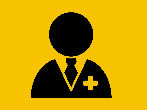
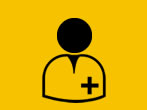
+adaugare butoane de fast login doar pentru telefon,
+adaugare casute imagini
+ modificare structura landing page ( am scos o sectiune de pe mobil si am puso unde ii este locul pentru responsiv)
+ modificari texte
+ adaugare texte
+ modificari css buttoane

Changed region(s): [[0.1905, 0.1091, 0.7619, 0.9545]]

diff --git a/app/scripts/common/about.tmpl.html b/app/scripts/common/about.tmpl.html
@@ -38,7 +38,7 @@
                  
                  <div class="container">       
                         <div class="row">
-                        	<div class="col-sm-6 hidden-phone">
+                        	<div class="col-sm-6">
                             	<h3 translate="steps"></h3>
                                 <div class="hr"></div>
                                 
@@ -112,7 +112,8 @@
 										<p class="text-center" translate="use-professional-two"></p>
                                     </div><!-- end .col-xs-4 -->
                                     <div class="col-xs-4">
-                                    	
+                                    	<p><img src="../../images/doctor-2.jpg" /></p>
+										<p class="text-center" translate="use-professional-three"></p>
                                     </div><!-- end .col-xs-4 -->                               
                                 </div><!-- end .row -->
                             </div><!-- end .col-md-6 -->
@@ -136,53 +137,7 @@
                  </div><!-- end .col-xs-12 -->
                 
                 
-                <div class="container">       
-                        <div class="row">
-                        	
-                           <div class="col-xs-12 visible-phone">
-                            	<h3 translate="steps"></h3>
-                                <div class="hr"></div>
-                                
-                                <div class="row step">
-                                	<div class="col-sm-4 col-md-2">
-                                    	<i class="fa fa-user"></i>
-                                    </div><!-- end .col-xs-4 -->
-                                    <div class="col-sm-8 col-md-10">
-                                    	 <p> 1. <span translate="step-one"></span></p>  
-                                    </div><!-- end .col-xs-8 -->
-                                </div><!-- end .row .step -->
-                                
-                                 <div class="row step">
-                                	<div class="col-sm-4 col-md-2">
-                                    	<i class="fa fa-camera"></i>
-                                    </div><!-- end .col-xs-4 -->
-                                    <div class="col-sm-8 col-md-10">
-                                    	 <p> 2. <span translate="step-two"></span></p> 
-                                    </div><!-- end .col-xs-8 -->
-                                </div><!-- end .row .step -->
-                                
-                                 <div class="row step">
-                                	<div class="col-sm-4 col-md-2">
-                                    	<i class="fa fa-list-ol"></i>
-                                    </div><!-- end .col-xs-4 -->
-                                    <div class="col-sm-8 col-md-10">
-                                    	 <p> 3. <span translate="step-three"></span></p> 
-                                    </div><!-- end .col-xs-8 -->
-                                </div><!-- end .row .step -->
-                                
-                                <div class="row step">
-                                	<div class="col-sm-4 col-md-2">
-                                    	<i class="fa fa-medkit"></i>
-                                    </div><!-- end .col-xs-4 -->
-                                    <div class="col-sm-8 col-md-10">
-                                    	 <p> 4. <span translate="step-four"></span></p>
-                                    </div><!-- end .col-xs-8 -->
-                                </div><!-- end .row .step -->
-                               
-                            </div><!-- end .col-xs-12 -->
-                        
-                		</div><!-- end .row -->
-                </div><!-- end .container -->  
+                
                 
                 <footer>
                 

diff --git a/app/styles/main.css b/app/styles/main.css
@@ -170,9 +170,7 @@ img{
 	margin-right:5px;
 }
 
-.social-media div{
-	float:right;
-}
+
 
 .social-media p a{
 	display:inline-block;
@@ -200,23 +198,22 @@ img{
 .account{
 	margin-top:15px;
 	padding:10px;
-	border:1px solid #85c226;
-	color:#598219;
+	border:1px solid #F8C301;
+	background-color: #F8C301;
+	color:#fff;
 	display:block;
-	-webkit-transition: color 0.3s linear;
-	-moz-transition: color 0.3s linear;
-	-ms-transition: color 0.3s linear;
-	-o-transition: color 0.3s linear;
-	transition: color 0.3s linear;
+	-webkit-transition: all 0.3s linear;
+	-moz-transition: all 0.3s linear;
+	-ms-transition: all 0.3s linear;
+	-o-transition: all 0.3s linear;
+	transition: all 0.3s linear;
 }
 
 .account:hover{
-	background-color: #85c226;
+	background-color: #367fa9;
 	color:#fff;
+	border-color: #367fa9;
 }
-
-
-
 
 @media (min-width: 768px) and (max-width: 979px) {
 
@@ -228,16 +225,21 @@ img{
 
 @media (max-width: 767px) {
 .social-media {
-	float:none;	
+	float:none;
+	text-align:center;	
 }
-
-.social-media{	
-	text-align:center;
-}	
 
 .social-media div{
 	float:none;
 	margin:15px auto;
+}
+
+.social-media p a{ 
+	display: inline-block!important;
+}
+
+.social-media p a i{
+	font-size: 24px;
 }
 
 .header-recomand {
@@ -278,6 +280,10 @@ img{
 	font-size:20px;
 }
 
+.register-header-first small{
+	font-size: 12px;
+}
+
 .register-header-last {
 	margin-top:10px;
 }
@@ -305,8 +311,8 @@ img{
 }
 .register input[type="checkbox"] {
 	margin-right:10px;
-	margin-top:5px;
-	margin-bottom:10px;
+	margin-top:10px;
+	margin-bottom:20px;
 }
 
 .register button {

diff --git a/app/index.html b/app/index.html
@@ -62,6 +62,7 @@
                <div class="social-media">
                
                		<p>
+						<a class="visible-phone" href="#" title="user login"><i class="fa fa-user"></i></a> <!--  This button send you on the loginpage -->
                         <a href="#" title="facebook"><i class="fa fa-facebook"></i></a>
                         <a href="#" title="linkedin"><i class="fa fa-linkedin"></i></a>
                         <a href="EyeView.pdf" target="blank_" title="manual utilizator"><i class="fa fa-book"></i></a>
